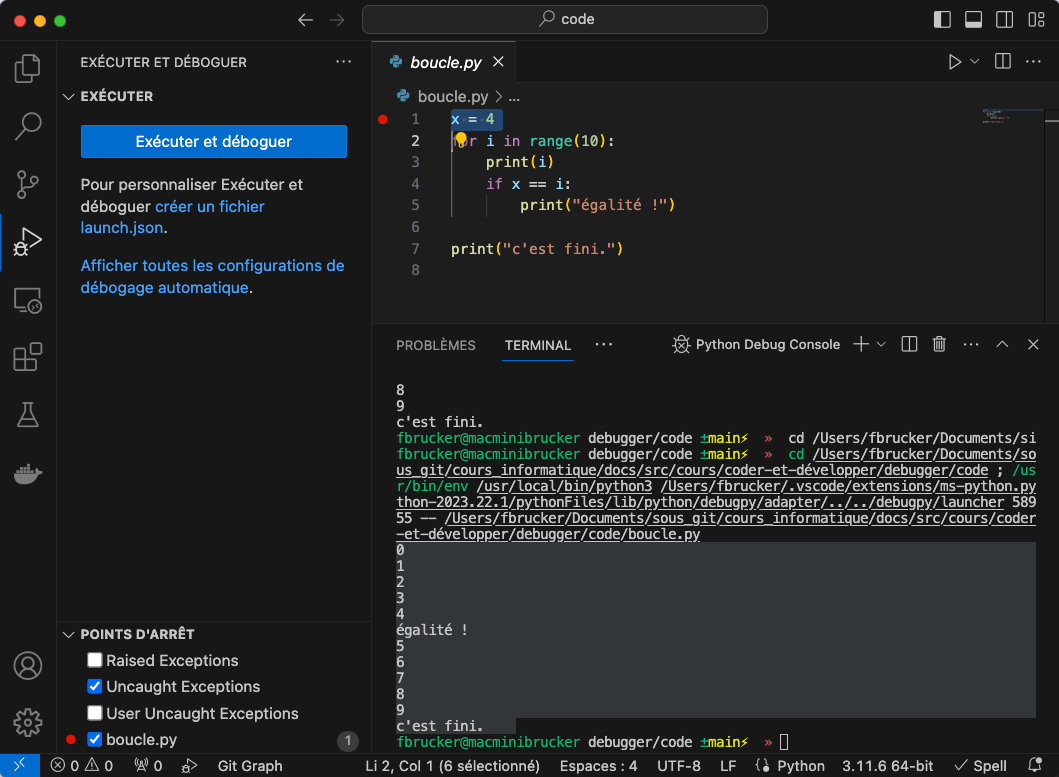
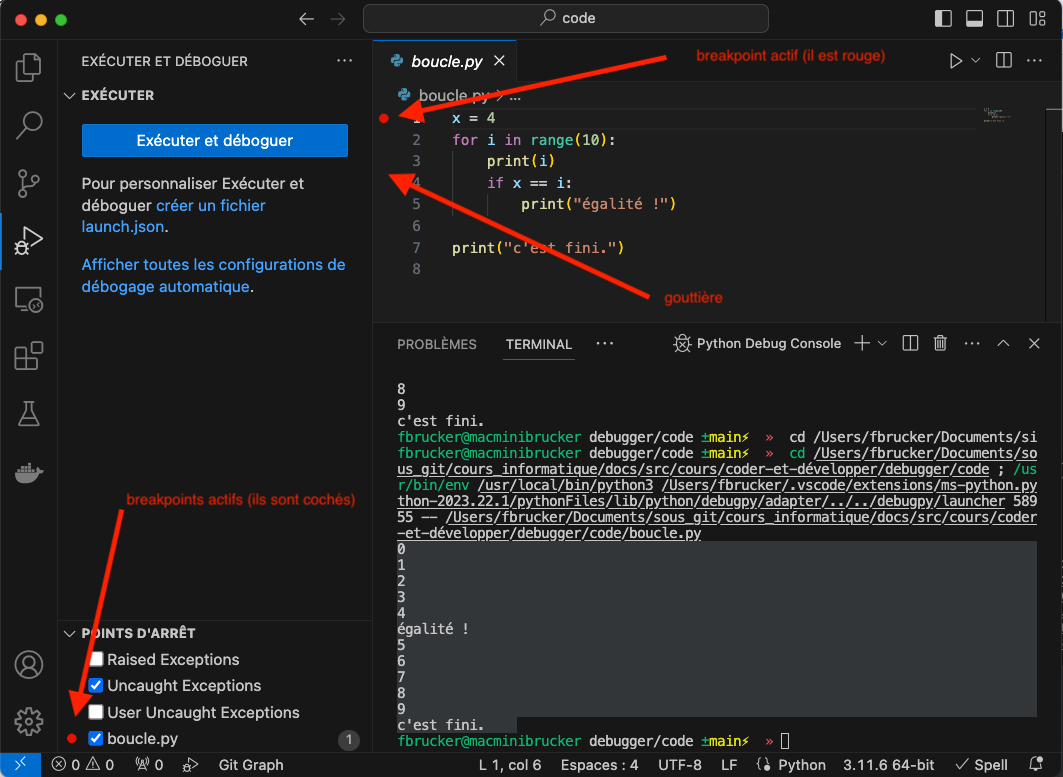
debug

diff --git a/docs/src/cours/coder-et-développer/debugger/index.md b/docs/src/cours/coder-et-développer/debugger/index.md
@@ -28,10 +28,10 @@ L'idée est de remplacer les divers `print`{.language-} utilisés pour visualise
 ## Breakpoint et exécution pas à pas
 
 {% faire %}
-Créez un fichier `boucle.py`{.fichier} où vous copiez/collerez le code ci-après
+Créez un fichier `boucle.py`{.fichier} dans votre projet et copiez/collez y le code ci-après.
 {% endfaire %}
 
-```python
+```python#
 x = 4
 for i in range(10):
     print(i)
@@ -41,6 +41,10 @@ for i in range(10):
 print("c'est fini.")
 
 ```
+
+{% attention %}
+Faites en sorte que les numéros de lignes correspondent.
+{% endattention %}
 
 ### Exécution du debugger
 
@@ -94,7 +98,7 @@ C'est normal par il faut demander explicitement au débogueur de s'arrêter un c
 
 Pour créer [un point d'arrêt (breakpoint)](https://code.visualstudio.com/docs/editor/debugging#_breakpoints) :
 
-- `menu exécuter > activer/desactiver le point d'arrêt`
+- `menu exécuter > activer/désactiver le point d'arrêt`
 - cliquer sur la gouttière du fichier, à gauche des numéros de lignes (vous savez que vous êtes au on endroit lorsque un disque rouge foncé apparaît)
 - appuyer sur la touche `<F9>`
 
@@ -103,20 +107,152 @@ Une fois le breakpoint placé, un point rouge doit apparaître dans la gouttièr
 ![breakpoint placement](./breakpoint-placement.png)
 
 {% faire %}
+Placez un breakpoint à la ligne 1 du fichier `boucle.py`{.fichier} (identique à l'image ci-dessus).
+{% endfaire %}
+
+On voit que le breakpoint est actif car il est sélectionné en bas à gauche du panneau du débogueur
+
+### Lancement du débogueur
+
+{% faire %}
+Avec le breakpoint de la ligne 1 actif, exécutez le débogueur en cliquant sur le bouton `Exécuter et déboguer`. Vous devriez vous retrouver dans l'état de la figure ci-dessous.
+{% endfaire %}
+
+![débogueur lancé](./débogueur-lancé.png)
+
+Le breakpoint est placé à la ligne 1 : l'interpréteur s'est arrêté **juste avant d'exécuter cette ligne**.
+
+On a plusieurs types d'actions possibles (le nom de l'action apparaît lorsque la souris est placée dessus) :
+
+- les actions bleues, `Continuer`, `pas à pas principal`, `pas à pas détaillé` et `pas à pas sortant`  qui gèrent l'exécution de l'interpréteur :
+  - `Continuer` : l'interpréteur se lance et s'arrête à l prochaine ligne avec un breakpoint qu'il rencontre
+  - `pas à pas principal` (*step over*) : l'interpréteur exécute la ligne
+  - `pas à pas détaillé` (*step into*) : si la ligne consiste à exécuter une fonction que l'on a écrite, l'interpréteur d'arrête juste après l'appel de la fonction
+  - `pas à pas sortant` : si l'interpréteur exécute une fonction que l'on a écrite, l'interpréteur continue son exécution jusqu'à ce qu'il sorte de la fonction
+- l'action verte, `Redémarrer`, qui redémarre le débogueur
+- l'action rouge, `Arrêter`, qui stoppe le débogueur
+
+#### Action `Continuer`
+
+{% faire %}
+Cliquez sur l'action bleue `continuer`.
+{% endfaire %}
+
+L'interpréteur à continué son exécution jusqu'à trouver une ligne avec un breakpoint, ce qu'il n'a pas trouvé.
+
+{% faire %}
+Ajoutez un breakpoint à la ligne 4 puis :
+
+1. re-exécutez le débogueur
+2. cliquez sur l'action `Continuer`
 
 {% endfaire %}
 
-> TBD reéxécution 
+Vous devriez vous retrouver dans l'état suivant :
 
-> TBD
->
-> - montrer l'exécution de l'interpréteur, une ligne à près l'autre, puis exécution des fonctions.
-> - montrer les variables
-> - utiliser les watch à la place des prints
-> - modifier l'appel
-> - breakpoint conditionnel (nombre de passages dans une boucle, valeur d'une variable, etc)
+![débogueur 2 breakpoint](./débogueur-actions-variables.png)
 
-## Fonctions et step into
+On voit l'état interne de l'interpréteur avec les deux variables `i`{.language-} (valant 0) et `x`{.language-} valant 4.
+
+{% info %}
+Ces deux variables sont également des variables globales.
+{% endinfo %}
+
+#### Action `pas à pas principal`
+
+{% faire %}
+Cliquez sur l'action `pas à pas principal`.
+{% endfaire %}
+
+L'interpréteur est remonté en ligne 2. Puisque `i`{.language-} est différent de `x`, le bloc conditionnel n'est pas considéré. Voyez que l'instruction `for`{.language-} n'est pas exécuté puisque `i`{.language-} vaut toujours 0.
+
+{% faire %}
+Cliquez sur l'action `pas à pas principal`.
+{% endfaire %}
+
+La ligne 2 a été exécutée :  `i`{.language-} vaut bien 1.
+
+{% faire %}
+Cliquez sur l'action `Continuer` jusqu'à ce que `i` soit égal à 4.
+{% endfaire %}
+
+Vous devez vous retrouver devant l'état suivant :
+
+![i==4](./débogueur-action-i-4.png)
+
+{% faire %}
+Cliquez sur l'action `pas à pas principal`.
+{% endfaire %}
+
+L'interpréteur à du s'arrêter en ligne 5
+
+{% faire %}
+Cliquez sur l'action `pas à pas principal`.
+{% endfaire %}
+
+Vous devriez voir la ligne `égalité` s'afficher dans le terminal.
+
+{% faire %}
+Supprimez le breakpoint de la ligne 4 en cliquant sur le disque rouge qui lui est associé dans la gouttière.
+{% endfaire %}
+{% info %}
+Vous pouvez également supprimer un breakpoint en lui cliquant droit dessus dans le panneau du débogueur et en choisissant `Supprimer le point d'arrêt`.
+{% endinfo %}
+
+{% faire %}
+Cliquez sur l'action `Continuer`.
+{% endfaire %}
+
+L'interpréteur va continuer son exécution jusqu'à la fin du programme.
+
+{% note %}
+L'utilisation de breakpoints  permet d'accéder à **un point d’intérêt spacial** (une ligne) dans l'exécution du programme.
+{% endnote %}
+
+### Breakpoint conditionnel
+
+Supposons que l'on veuille juste vérifier que notre condition if fonctionne bien. On s'en fiche des cas où `i`{.language-} est différent de `x`{.language-} lors de l'exécution du programme, donc inutile de s'arrêter à chaque fois que l'interpréteur passe en ligne 4.
+
+Pour cela, on peut créer des breakpoint conditionnels :
+
+{% faire %}
+
+1. Cliquez droit dans la gouttière de la ligne 4 et choisissez `Point d'arrêt conditionnel...`
+2. Choisissez comme condition d'arrêt l'expression `i == x`{.language-}
+
+{% endfaire %}
+
+Placement du breakpoint conditionnel :
+
+![breakpoint conditionnel](./breakpoint-conditionnel.png)
+
+Valeur du breakpoint conditionnel, en passant la souris dessus :
+
+![breakpoint conditionnel](./breakpoint-conditionnel-valeur.png)
+
+{% faire %}
+
+Exécuter le débogueur puis cliquer sur `Continuer` une fois l'interpréteur arrêté au breakpoint de la ligne 1.
+
+{% endfaire %}
+
+Vous devriez vous arrêter au breakpoint de la ligne 4, mais `i`{.language-} vaut 4 (donc `x`{.language-}).
+
+{% note %}
+L'utilisation de breakpoints conditionnels permet d'accéder à **un point d’intérêt temporel** (ligne + condition) dans l'exécution du programme.
+{% endnote %}
+
+Pour finir cette partie, sortons du débogueur :
+
+{% faire %}
+Cliquer sur l'action `Arrêter` pour stopper le débogueur.
+{% endfaire %}
+
+## Gestion des Fonctions
+
+{% faire %}
+Créez un fichier `boucle-fonction.py`{.fichier} dans votre projet et copiez/collez y le code ci-après.
+{% endfaire %}
 
 ```python
 def test_égalité(i, x):
@@ -134,11 +270,19 @@ print("c'est fini.")
 
 ```
 
-> TBD
->
-> - step_into ne marche qu'avec nos fonctions, pas ceux de python (on ne connaît pas le code de print par exemple.)
+Ce programme va vous permettre de voir :
 
-## Pile d'apels
+- les actions `pas à pas détaillée` et `pas à pas sortant`
+- le concept de variables locales et globales
+
+### Actions pas à pas détaillée et sortant
+
+\
+> TBD step_into ne marche qu'avec nos fonctions, pas ceux de python (on ne connaît pas le code de print par exemple.)
+
+### Variables locales/globales
+
+## Pile d'appels
 
 ```python
 def factorielle(n):
@@ -157,7 +301,13 @@ print(factorielle(10))
 > - montrer les appels successifs aux fonctions : stacks
 > - faire une fonction récursive pour montrer les appels.
 
-## Exercice
+## Watchpoint
+
+> TBD :
+> -  utiliser les watch à la place des prints
+> - utiliser des breakpoint conditionnels
+> - variables locqle/globale
+
 
 ```python
 def élague(x, crible):
@@ -209,12 +359,3 @@ print(premiers)
 ```
 
 > TBD : tout refaire faire.
->
-> - montrer les variables et en modifier une
-> - montrer l'exécution de l'interpréteur, une ligne à près l'autre, puis exécution des fonctions.
-> - utiliser les watch à la place des prints
-> - step_into ne marche qu'avec nos fonctions, pas ceux de python (on ne connaît pas le code de print par exemple.)
-
-## Autres trucs
-
-> TBD : points d'arrêt conditionnels
